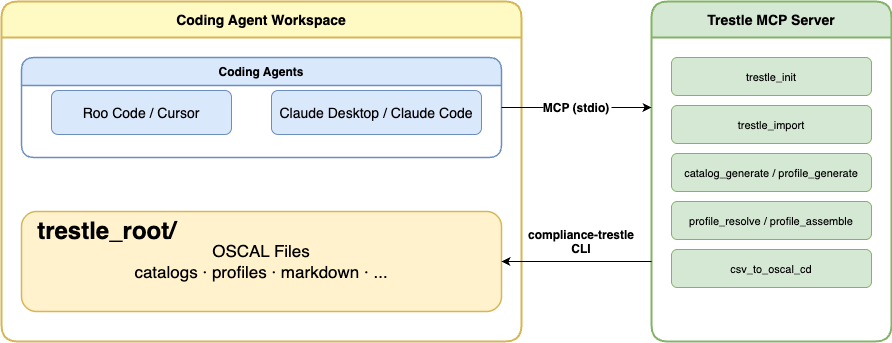
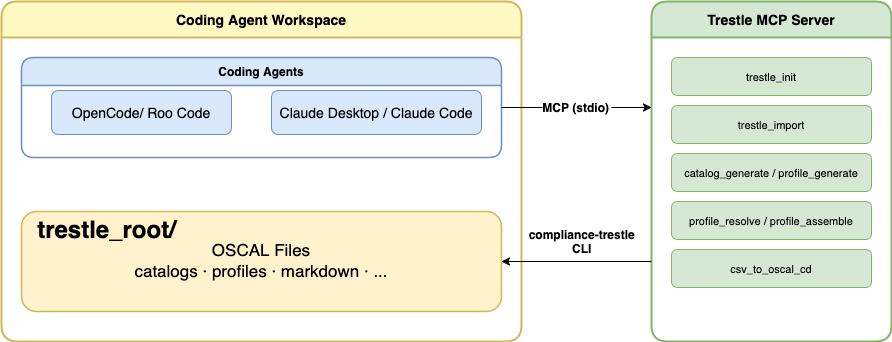
docs: move the coding-agent walkthrough from Roo Code to OpenCode
The README's "Getting Started" path documented Roo Code, which is no longer the
agent this is driven from. OpenCode spells MCP configuration differently enough
that the old block was not adaptable by eye:

- `opencode.json` in the workspace, not `.roo/mcp.json`
- `mcp` rather than `mcpServers`, and an `enabled` flag
- `type: "local"`
- `command` as a single array, instead of `command` plus `args`
- `environment` rather than `env`

The new entry is the configuration actually in use, with the pinned version
replaced by `<version>` and a line saying to drop `==<version>` to track the
latest. It also sets `TRESTLE_MCP_TOOLS: "all"` and points at "Choosing which
tools are exposed", since a reader copying a config is exactly the reader who
needs to know the default is narrower.

The selector section keeps its `mcpServers` examples, which is the shape most
clients take, and now names the four spelling differences rather than leaving
someone to discover that `env` is silently ignored by OpenCode.

Verified that the README's block, with `<version>` resolved, parses to the same
`mcp` object as the opencode.json this is running against.

Also carries the diagram update: the agent box in architecture.drawio read
"Roo Code / Cursor" and now reads "OpenCode/ Roo Code", with the matching PNG
re-export. The rest of the drawio diff is drawio's own re-save — `&#10;`
normalised to `&#xA;` and the editor viewport attributes. architecture.md's two
[…]

diff --git a/README.md b/README.md
@@ -1,6 +1,6 @@
 # Trestle MCP
 
-MCP server to easily use [compliance-trestle](https://github.com/oscal-compass/compliance-trestle) (OSCAL tool) from Claude, Roo, or any MCP-compliant client.
+MCP server to easily use [compliance-trestle](https://github.com/oscal-compass/compliance-trestle) (OSCAL tool) from OpenCode, Claude, or any MCP-compliant client.
 
 mcp-name: io.github.oscal-compass/compliance-trestle-mcp
 
@@ -8,29 +8,36 @@ mcp-name: io.github.oscal-compass/compliance-trestle-mcp
 
 This project can be used in the following two ways:
 
-- **[Usage from Coding Agent (Roo Code)](#usage-from-roocode)**: Use Trestle-MCP from Roo Code via MCP.
+- **[Usage from a coding agent (OpenCode)](#usage-from-opencode)**: Use Trestle-MCP from OpenCode via MCP.
 - **[Usage from CLI (MCP Client)](#usage-from-cli-mcp-client)**: Invoke Trestle-MCP directly using an MCP CLI client.
 
 Choose the option that best fits your workflow.
 
-## Usage from RooCode
+## Usage from OpenCode
 
-1. Add the following JSON to `.roo/mcp.json` (Roo workspace):
-    
+1. Add the following to `opencode.json` in your workspace:
+
     ```json
     {
-        "mcpServers": {
+        "mcp": {
             "trestle": {
-                "command": "uvx",
-                "args": ["--from", "compliance-trestle-mcp", "trestle-mcp"]
+                "type": "local",
+                "command": ["uvx", "--from", "compliance-trestle-mcp==<version>", "trestle-mcp"],
+                "environment": { "TRESTLE_MCP_TOOLS": "all" },
+                "enabled": true
             }
         }
     }
     ```
 
-2. Open Roo, confirm `trestle` tools are listed in the MCP panel, and execute as needed.
+    Replace `<version>` with the release you want; drop `==<version>` to track the
+    latest. `TRESTLE_MCP_TOOLS` chooses how much of the command surface to expose —
+    `all` is every tool, and the default without it is the authoring lifecycle. See
+    [Choosing which tools are exposed](#choosing-which-tools-are-exposed).
 
-    https://github.com/user-attachments/assets/59215549-cad9-4101-baa4-ecba77ac3904
+2. Open OpenCode, confirm the `trestle` tools are listed, and execute as needed.
+
+    https://github.com/user-attachments/assets/86c0abce-7285-4539-a7ae-90bbc1d2a66c
 
 ---
 
@@ -208,6 +215,12 @@ and the generic task runner:**
     }
 }
 ```
+
+The examples above use the `mcpServers` shape most MCP clients take. OpenCode
+spells the same things differently — `mcp` rather than `mcpServers`, `command`
+as one array instead of a `command` plus `args`, and `environment` rather than
+`env` — so the "everything" selection looks like
+[the entry at the top of this README](#usage-from-opencode).
 
 Run `trestle-mcp --help` for the group list, and watch stderr on startup for the
 line reporting the selection and how many tools it registered.

diff --git a/docs/architecture.md b/docs/architecture.md
@@ -9,7 +9,7 @@
 The coding agent workspace doubles as the `trestle_root` — the directory that compliance-trestle uses to store and manage OSCAL artifacts. This means the AI agent can read and edit OSCAL files (catalogs, profiles, component definitions, markdown control docs) directly alongside the MCP tools that operate on them.
 
 **Request flow:**
-1. The user asks the coding agent (Roo Code, Claude, etc.) to perform an OSCAL operation in natural language.
+1. The user asks the coding agent (OpenCode, Claude, etc.) to perform an OSCAL operation in natural language.
 2. The coding agent calls the appropriate MCP tool exposed by the Trestle MCP Server.
 3. The server translates the call into a `compliance-trestle` CLI command and runs it as a subprocess.
 4. The CLI reads from and writes to the `trestle_root/` directory inside the workspace.
@@ -20,7 +20,7 @@ The coding agent workspace doubles as the `trestle_root` — the directory that 
 graph TB
     subgraph Clients["MCP Clients"]
         C1[Claude Desktop]
-        C2[Roo Code]
+        C2[OpenCode]
         C3[Other MCP Clients]
     end
 
